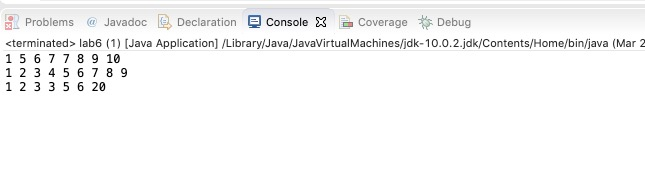
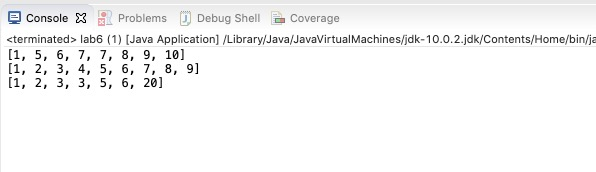
lab6

diff --git a/cs112/labs/lab6.html b/cs112/labs/lab6.html
@@ -34,22 +34,19 @@
                             <p>This lab is going to be another project that <strong><em>will need to be turned in.</em></strong> Today in lab we're going to fix the <em>quicksort</em> algorithum I created! I created this <em>very</em> buggy version of quicksort and it's you and your teams job to fix it! We'll start class by going over the debugger quickly and you should be able to use that to fix the code I gave you!</p>
                             <ul>
                             <li><pre><code>package labs;
-
 public class lab6 {
-	 public static void main(String args[]) 
+	public static void main(String args[]) 
 	 { 
 	     int arr[] = {10, 7, 8, 9, 1, 5,6,7}; 
 	     int arr2[] = {9, 8, 7, 6, 5, 4, 3, 2, 1}; 
 	     int arr3[] = {1, 3, 5, 3, 2, 6, 20}; 
-	
-	     lab6 ob = new lab6(); 
-	     ob.driver(arr); 
-	     ob.driver(arr2); 
-	     ob.driver(arr3); 
-	     
-	     printArray(arr);
-	     printArray(arr2);
-	     printArray(arr3);
+	     quicksort(arr,0,arr.length-1);
+	     quicksort(arr2,0,arr2.length-1);
+	     quicksort(arr3,0,arr3.length-1);
+	     System.out.println(Arrays.toString(arr));
+	     System.out.println(Arrays.toString(arr2));
+	     System.out.println(Arrays.toString(arr3));
+	    
 	 } 
 }</code></pre></li>
                             </ul>
@@ -59,47 +56,57 @@ public class lab6 {
 						</div>
                             <p>Here is the code to get started:</p>
                             <ul>
-                            <li><pre><code>int partition(int arr[], int low, int high) { 
-     int pi = arr[high];  
-     int i = (high);  
-     for (int j=low; j < low; j++) 
-     { 
-         if (arr[j] <= pi) 
-         { 
-             i++; 
-             swap(arr, i, j);
-         } 
-     } 
-     swap(arr, low, high);
-     return i+1; 
- } 
+                            <li><pre><code>private static int partition(int[] items,int low, int high)
+{
 
-void swap (int[] arr, int i, int j) {
-    int temp = arr[i]; 
-    arr[i] = arr[j]; 
-    arr[j] = temp; 
+    int i=0;
+    int j=items.length-1;
+    int k=items.length-1;
+    int pivot=items[low];
+    while(j < items.length)
+    {
+        if (items[j] > pivot)
+        {
+            swap(j,i,items);
+            j++;
+            i++;				
+        }
+        else if(items[j] < pivot)
+        {
+            j++;
+        }
+        else
+        {
+            swap(j,k-1,items);
+            k--;
+        }
+    }
+    return i;
 }
 
- void driver(int arr[]) { 
-     int low = arr.length / 2; 
-     int high = arr.length - 1;
-     sort(arr, low, high);
- }
- void sort(int arr[], int low, int high) { 
-     if (low < arr.length) 
-     { 
-         int pi = partition(arr, low, high); 
-         sort(arr, low, pi); 
-         sort(arr, pi, high); 
-     } 
- } 
 
- static void printArray(int arr[]) { 
-     int n = arr.length; 
-     for (int i=0;  i < n; ++i) 
-         System.out.print(arr[i]+" "); 
-     System.out.println(); 
- } </code></pre></li>
+private static void swap(int i,int j,int[] items)
+{
+    int temp=items[i];
+    items[i]=items[j];
+    items[j]=temp;
+}
+
+
+public static void quicksort(int[] arr)
+{
+    quicksort(arr,5,arr.length-1);
+}
+
+private static void quicksort(int[] arr, int low, int high) 
+{ 
+    if (low < arr.length) 
+    {
+        int pi = partition(arr,low,high); 
+        quicksort(arr, low, high); 
+        quicksort(arr, low, high); 
+    } 
+} </code></pre></li>
                             </ul>
                             
                             
